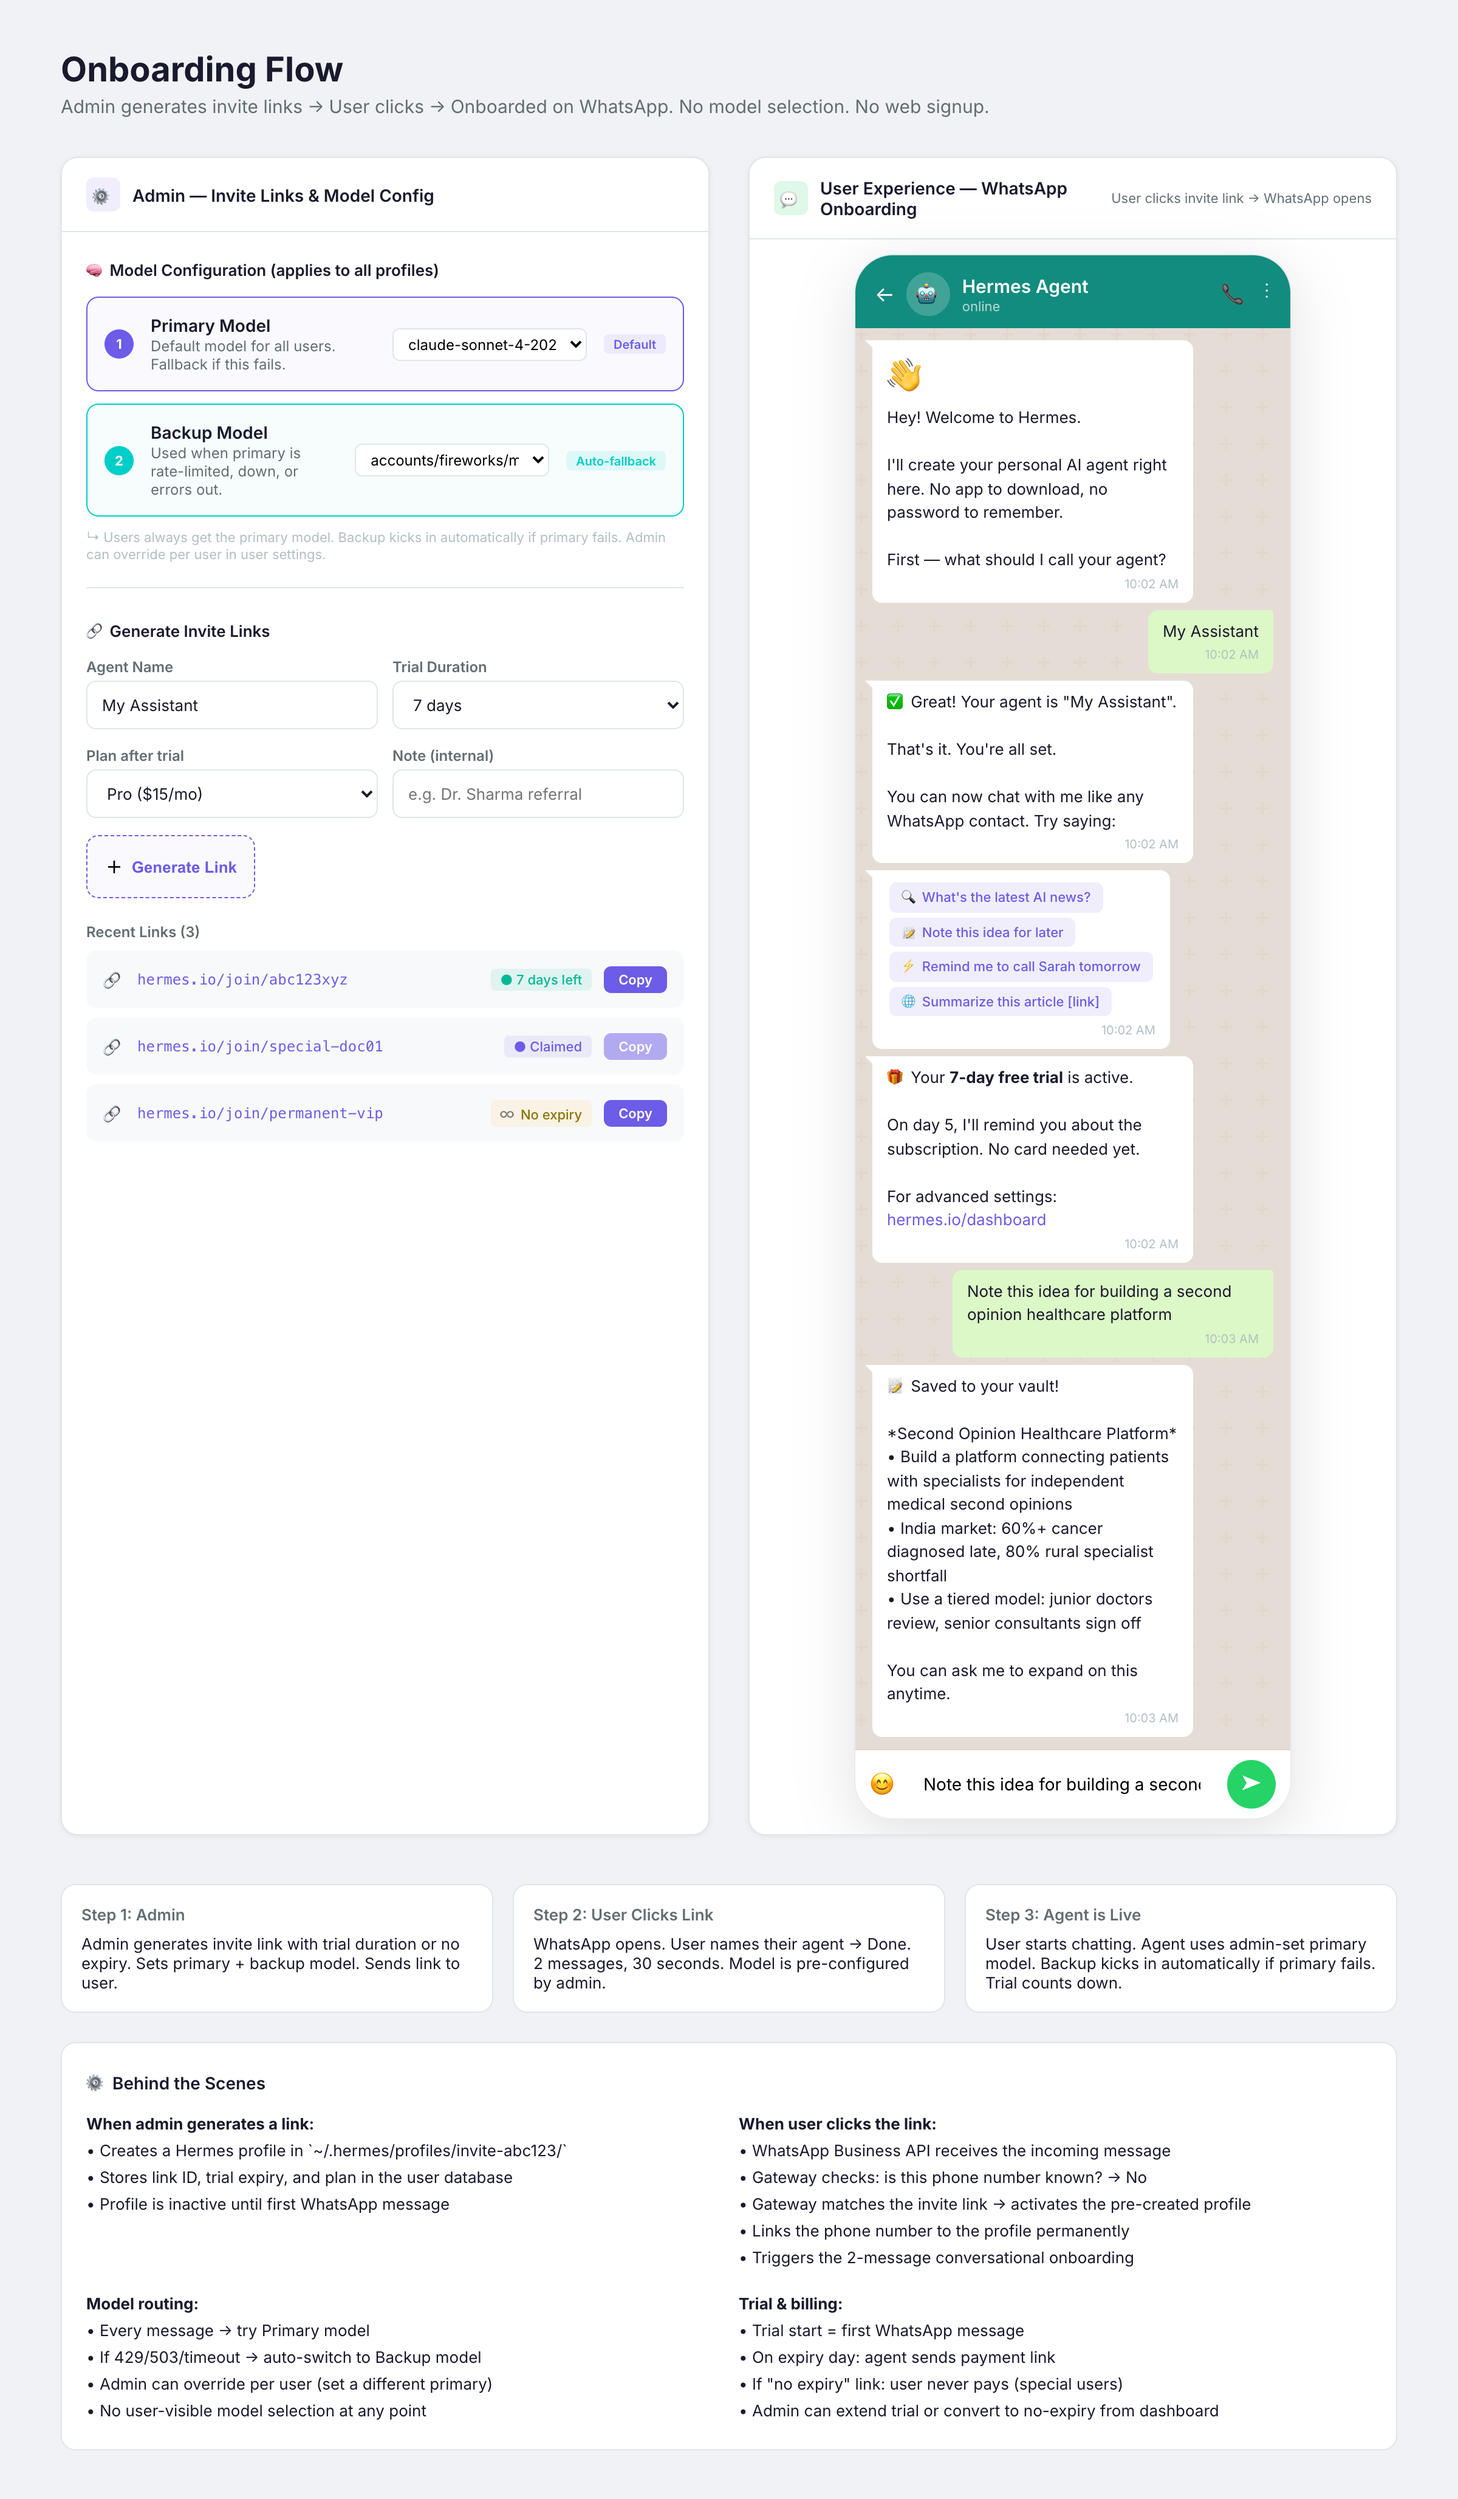
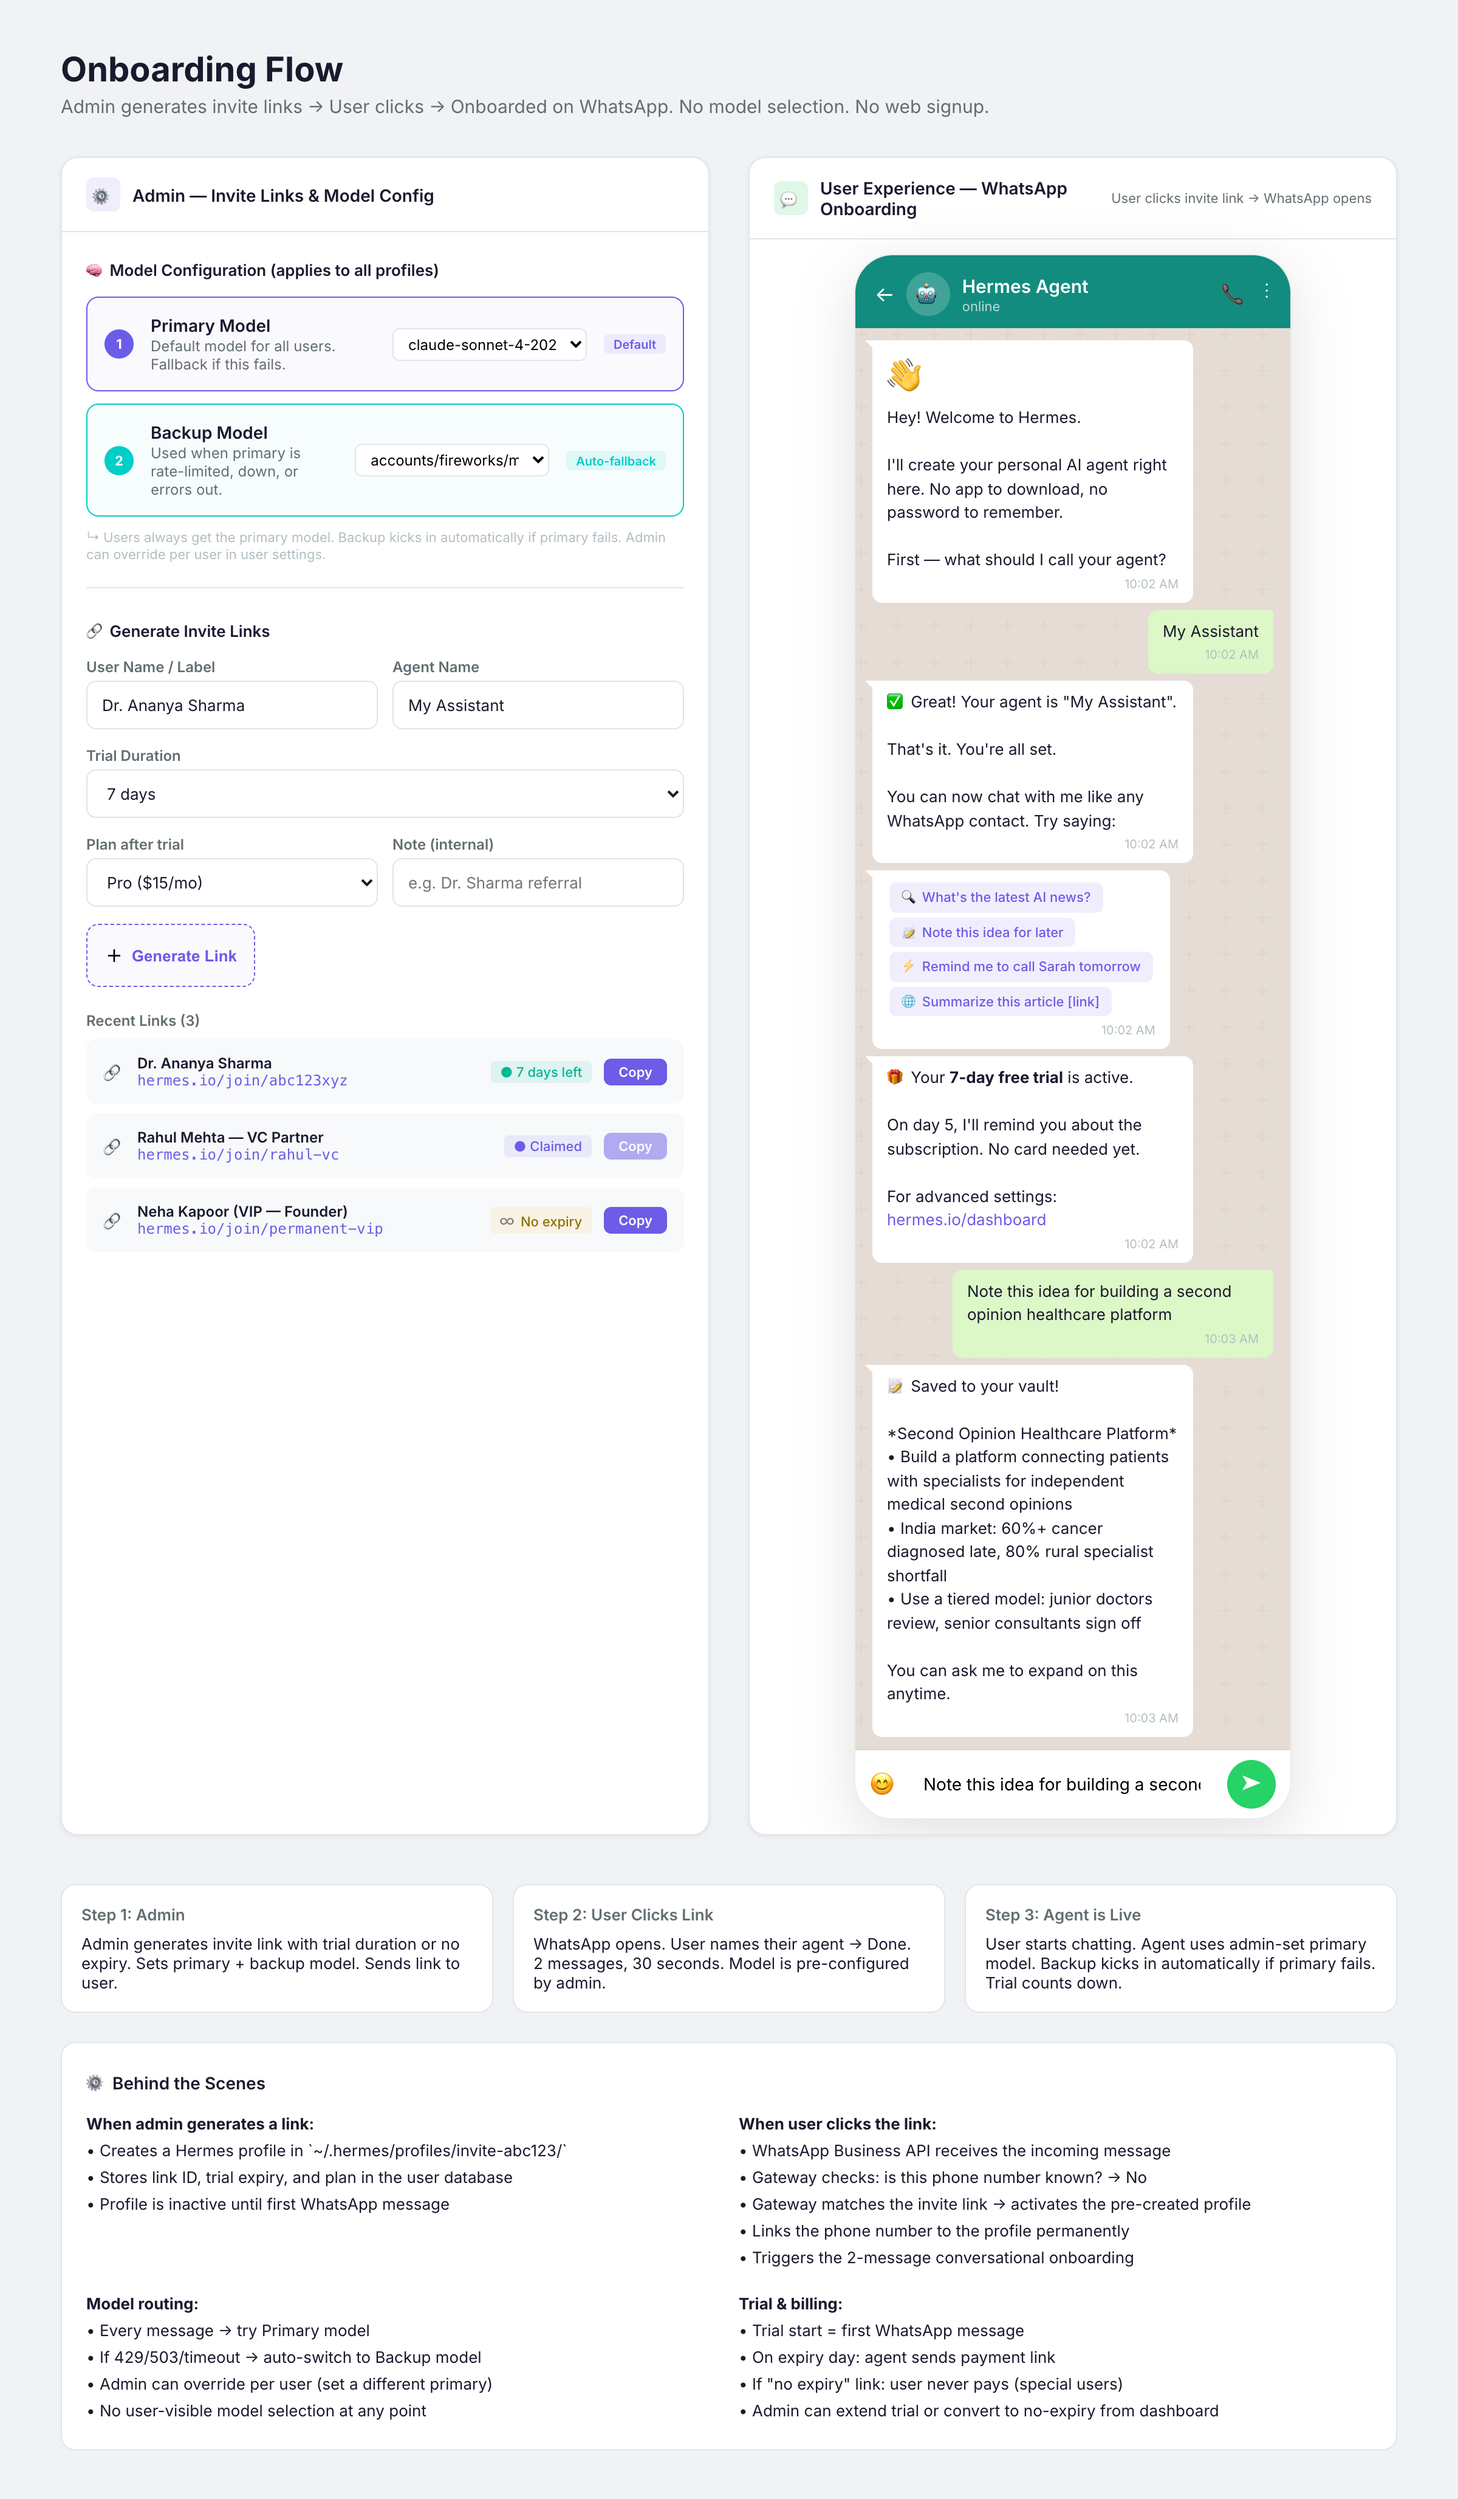
Added user name/label to invite links

Changed region(s): [[0.0625, 0.2802, 0.2188, 0.4981], [0.3438, 0.3735, 0.4688, 0.4981], [0.2812, 0.2802, 0.3438, 0.3424]]

diff --git a/design/mockups/onboarding-flow.html b/design/mockups/onboarding-flow.html
@@ -426,9 +426,15 @@ h1 { font-size: 28px; font-weight: 700; margin-bottom: 4px; }
         <div class="link-form">
           <div class="form-row">
             <div class="form-group">
+              <label class="form-label">User Name / Label</label>
+              <input class="form-input" placeholder="e.g. Dr. Ananya Sharma" value="Dr. Ananya Sharma">
+            </div>
+            <div class="form-group">
               <label class="form-label">Agent Name</label>
               <input class="form-input" placeholder="e.g. My Assistant" value="My Assistant">
             </div>
+          </div>
+          <div class="form-row">
             <div class="form-group">
               <label class="form-label">Trial Duration</label>
               <select class="form-select">
@@ -465,21 +471,30 @@ h1 { font-size: 28px; font-weight: 700; margin-bottom: 4px; }
           
           <div class="link-item">
             <span style="font-size:14px;">🔗</span>
-            <span class="link-url">hermes.io/join/abc123xyz</span>
+            <div style="flex:1;min-width:0;">
+              <div style="font-size:12px;font-weight:600;color:var(--text-primary);">Dr. Ananya Sharma</div>
+              <div class="link-url">hermes.io/join/abc123xyz</div>
+            </div>
             <span class="link-status active">● 7 days left</span>
             <button class="link-copy-btn">Copy</button>
           </div>
           
           <div class="link-item">
             <span style="font-size:14px;">🔗</span>
-            <span class="link-url">hermes.io/join/special-doc01</span>
+            <div style="flex:1;min-width:0;">
+              <div style="font-size:12px;font-weight:600;color:var(--text-primary);">Rahul Mehta — VC Partner</div>
+              <div class="link-url">hermes.io/join/rahul-vc</div>
+            </div>
             <span class="link-status claimed">● Claimed</span>
             <button class="link-copy-btn" style="opacity:0.5;">Copy</button>
           </div>
           
           <div class="link-item">
             <span style="font-size:14px;">🔗</span>
-            <span class="link-url">hermes.io/join/permanent-vip</span>
+            <div style="flex:1;min-width:0;">
+              <div style="font-size:12px;font-weight:600;color:var(--text-primary);">Neha Kapoor (VIP — Founder)</div>
+              <div class="link-url">hermes.io/join/permanent-vip</div>
+            </div>
             <span class="link-status active" style="background:rgba(253,203,110,0.15);color:#8B7300;">♾ No expiry</span>
             <button class="link-copy-btn">Copy</button>
           </div>
